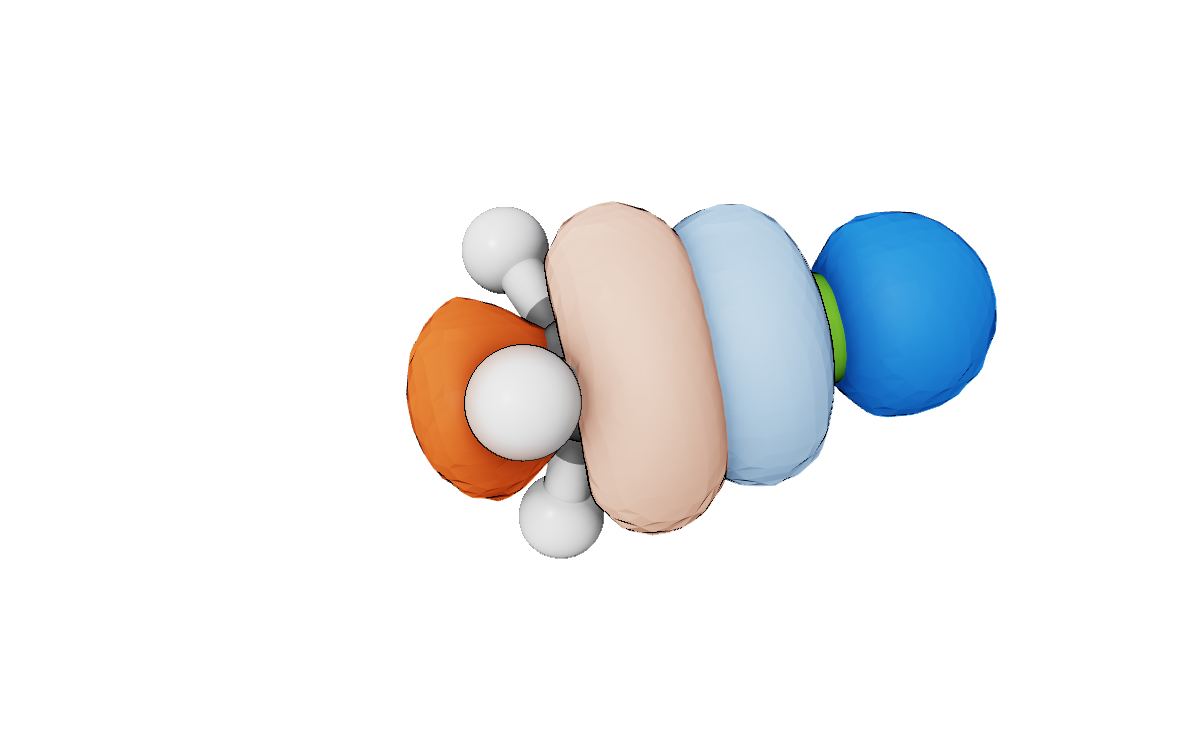
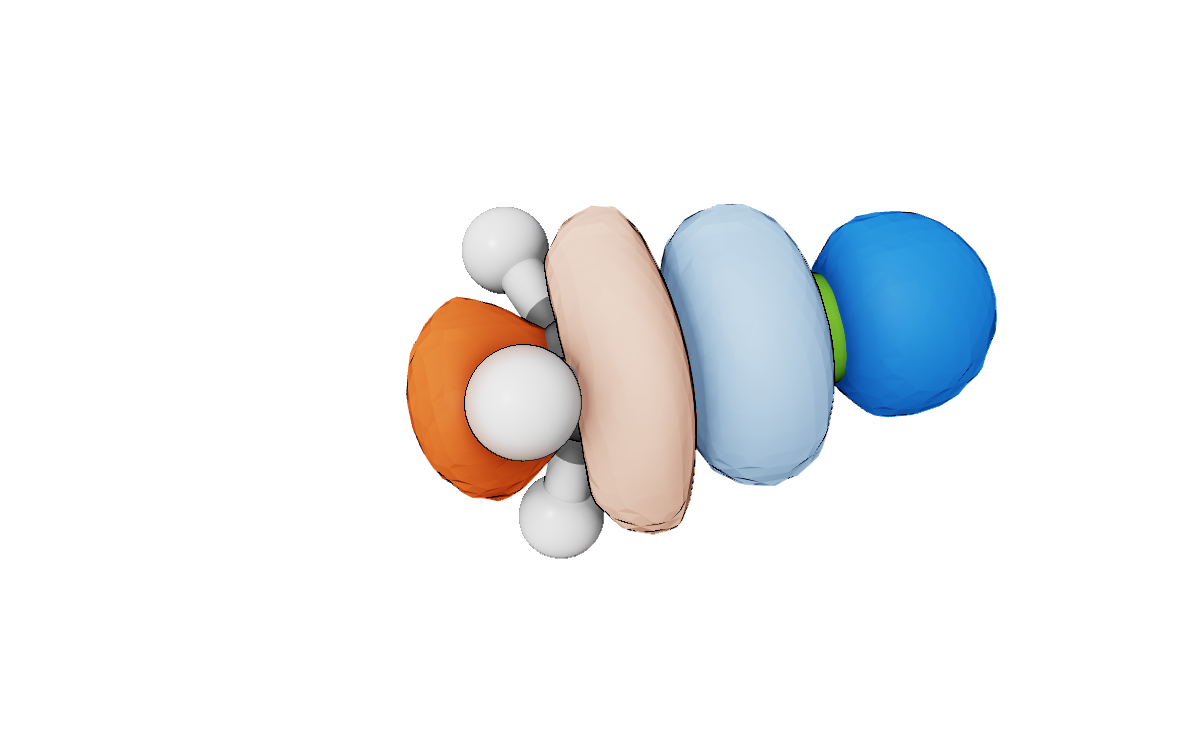
EOS/GEOS EFOs drawn times their fragment's weight, as APOST-3D's cubes
The orbitals of the EFO .fchk are fits of w_F times the EFO, with tails
on other fragments; with the atomic weights in the results, the EFOs are
drawn times w_F once more, which removes them. Drawing them as stored is
kept under Advanced; changing it redraws the EFOs already drawn, and
sessions keep the choice. Examples refreshed to schema 0.16; guide
section and pictures updated.

Changed region(s): [[0.4933, 0.2453, 0.6167, 0.7053], [0.5242, 0.7053, 0.555, 0.736]]

diff --git a/crates/app/src/orbitals.rs b/crates/app/src/orbitals.rs
@@ -1,8 +1,8 @@
 //! Orbital generation from a wavefunction (.fchk/.molden).
 
-use std::collections::HashSet;
+use std::collections::{BTreeMap, HashSet};
 
-use apost3dview_core::{generate_density_grid, generate_mo_grids, ApostResults, MolecularOrbitals, Molecule, Wavefunction};
+use apost3dview_core::{generate_density_grid, generate_mo_grids, generate_weighted_mo_grids, ApostResults, AtomCells, MolecularOrbitals, Molecule, OrbitalSet, Wavefunction};
 
 use crate::app::App;
 use crate::isosurfaces::{density_settings, Surface, SurfaceSettings, SurfaceSource};
@@ -78,6 +78,9 @@ pub(crate) struct OrbitalGenerationState {
     pub(crate) preset: OrbitalAccuracyPreset,
     pub(crate) custom_spacing_bohr: f64,
     pub(crate) padding_bohr: f64,
+    /// EFOs of EOS/GEOS sets times their fragment's atomic weight
+    /// (`fragment_weighting`), where the results file has the weights.
+    pub(crate) fragment_weighted: bool,
     /// 1-based, inclusive — state for the "Select range" convenience
     /// button in the MO picker.
     pub(crate) range_start: usize,
@@ -90,6 +93,7 @@ impl Default for OrbitalGenerationState {
             preset: OrbitalAccuracyPreset::Medium,
             custom_spacing_bohr: ORBITAL_SPACING_MEDIUM_BOHR,
             padding_bohr: ORBITAL_GRID_PADDING_BOHR,
+            fragment_weighted: true,
             range_start: 1,
             range_end: 1,
         }
@@ -168,6 +172,24 @@ pub(crate) struct SetContext<'a> {
     pub(crate) set: &'a LoadedOrbitalSet,
     pub(crate) results: &'a ApostResults,
     pub(crate) molecule: &'a Molecule,
+    /// EFOs times their fragment's atomic weight, where the results file
+    /// has the weights (`fragment_weighting`).
+    pub(crate) weighted: bool,
+}
+
+/// What an EFO set's orbitals are multiplied by: their fragment's atomic
+/// weight w_F, from the results file's `atomic_weights` (schema 0.16:
+/// BECKE, BECKE-RHO and TFVC atoms). The orbitals APOST-3D writes are
+/// basis-set fits of w_F times the EFO, with small tails on the other
+/// fragments; times w_F once more, the tails go. `None` for OSLOs (exact
+/// localized orbitals, not fragment-weighted), for Hilbert-space and
+/// Hirshfeld atoms and for files before 0.16 (no weights: drawn as stored);
+/// `Err` when the file's weights can't be used.
+pub(crate) fn fragment_weighting(set: &OrbitalSet, results: &ApostResults) -> Option<Result<AtomCells, String>> {
+    if !matches!(set.analysis.as_str(), "eos" | "geos") {
+        return None;
+    }
+    results.atom_cells()
 }
 
 /// How generated orbitals are named: the SCF ones "HOMO"/"MO 12", an
@@ -199,7 +221,20 @@ pub(crate) fn orbital_surfaces(
         }
         requests.push((orbitals, choice.mo_index));
     }
-    let grids = generate_mo_grids(&wfn.basis, &requests, spacing_bohr, padding_bohr)?;
+    let weighting = match &names {
+        OrbitalNames::Set(c) if c.weighted => fragment_weighting(&c.set.set, c.results).transpose().map_err(|reason| format!("the atomic weights of the results file can't be used: {reason}"))?,
+        _ => None,
+    };
+    let grids = match &weighting {
+        Some(cells) => {
+            let OrbitalNames::Set(c) = &names else { unreachable!() };
+            let atoms: Vec<Option<Vec<usize>>> =
+                choices.iter().map(|choice| c.set.labels(choice.beta).get(choice.mo_index).and_then(Option::as_ref).map(|label| c.results.fragment_atoms(&label.fragments))).collect();
+            generate_weighted_mo_grids(&wfn.basis, &requests, cells, &atoms, spacing_bohr, padding_bohr)?
+        }
+        None => generate_mo_grids(&wfn.basis, &requests, spacing_bohr, padding_bohr)?,
+    };
+    let weighted = weighting.is_some();
     Ok(grids
         .into_iter()
         .zip(choices)
@@ -209,7 +244,7 @@ pub(crate) fn orbital_surfaces(
                 OrbitalNames::Set(c) => (App::set_orbital_label(c.set, choice.beta, choice.mo_index, c.results, c.molecule), Some(c.set.set.key())),
                 OrbitalNames::Natural(n) => (format!("NO {} ({})", choice.mo_index + 1, n.name), Some(n.key())),
             };
-            let source = SurfaceSource::Orbital { choice, spacing_bohr, padding_bohr, set };
+            let source = SurfaceSource::Orbital { choice, spacing_bohr, padding_bohr, set, weighted };
             let mut surface = Surface::new(label, grid, settings, source);
             match &names {
                 OrbitalNames::Set(c) => {
@@ -358,7 +393,7 @@ impl App {
             return;
         }
         let (Some(Ok(wfn)), Some(Ok(results))) = (&set.wavefunction, structure.apost.as_ref().map(|a| &a.results)) else { return };
-        let context = SetContext { set, results, molecule: &structure.molecule };
+        let context = SetContext { set, results, molecule: &structure.molecule, weighted: self.orbital_generation.fragment_weighted };
         let surfaces = match orbital_surfaces(wfn, &choices, spacing, padding, self.surface_defaults, OrbitalNames::Set(&context)) {
             Ok(surfaces) => surfaces,
             Err(err) => {
@@ -372,6 +407,53 @@ impl App {
         let noun = if count == 1 { title.replacen("Os", "O", 1) } else { title.to_string() };
         self.add_surfaces(active, surfaces, true);
         self.show_status(format!("{count} {noun} generated"));
+    }
+
+    /// Generates the drawn orbitals of set `key` of a structure again, with
+    /// the current choice of fragment weighting, each keeping its settings
+    /// and visibility.
+    pub(crate) fn reweigh_set_surfaces(&mut self, structure_index: usize, key: &str) {
+        let Some(position) = self.structures[structure_index].orbital_sets.iter().position(|s| s.set.key() == key) else { return };
+        let mut groups: BTreeMap<(u64, u64), Vec<OrbitalChoice>> = BTreeMap::new();
+        for surface in &self.structures[structure_index].surfaces {
+            if let SurfaceSource::Orbital { choice, spacing_bohr, padding_bohr, set: Some(set), .. } = &surface.source
+                && set == key
+            {
+                groups.entry((spacing_bohr.to_bits(), padding_bohr.to_bits())).or_default().push(*choice);
+            }
+        }
+        if groups.is_empty() || !self.load_orbital_set(structure_index, position) {
+            return;
+        }
+        let weighted = self.orbital_generation.fragment_weighted;
+        let structure = &self.structures[structure_index];
+        let set = &structure.orbital_sets[position];
+        let (Some(Ok(wfn)), Some(Ok(results))) = (&set.wavefunction, structure.apost.as_ref().map(|a| &a.results)) else { return };
+        let context = SetContext { set, results, molecule: &structure.molecule, weighted };
+        let mut redrawn = Vec::new();
+        for ((spacing, padding), choices) in groups {
+            match orbital_surfaces(wfn, &choices, f64::from_bits(spacing), f64::from_bits(padding), SurfaceSettings::default(), OrbitalNames::Set(&context)) {
+                Ok(surfaces) => redrawn.extend(surfaces),
+                Err(err) => {
+                    self.show_warning(format!("Orbitals could not be generated: {err}"));
+                    return;
+                }
+            }
+        }
+        let count = redrawn.len();
+        let structure = &mut self.structures[structure_index];
+        for mut surface in redrawn {
+            if let Some(old) = structure.surfaces.iter_mut().find(|s| s.label == surface.label) {
+                surface.settings = old.settings;
+                surface.visible = old.visible;
+                *old = surface;
+            }
+        }
+        if self.active_structure == Some(structure_index) {
+            self.rebuild_isosurface();
+        }
+        let how = if weighted { "times their fragment's weight" } else { "as stored in the orbital file" };
+        self.show_status(format!("{count} EFO{} redrawn {how}", if count == 1 { "" } else { "s" }));
     }
 
     /// Draws one orbital of an analysis set (from a table row): the set

diff --git a/crates/app/src/session.rs b/crates/app/src/session.rs
@@ -213,6 +213,10 @@ enum SurfaceOrigin {
         /// of a density matrix ("natural-MP2"); absent for SCF orbitals.
         #[serde(default, skip_serializing_if = "Option::is_none")]
         orbital_set: Option<String>,
+        /// An EFO times its fragment's atomic weight (APOST-3D 0.16 on);
+        /// absent = as stored in the orbital file.
+        #[serde(default, skip_serializing_if = "std::ops::Not::not")]
+        fragment_weighted: bool,
     },
     /// The total or spin density, recomputed from the wavefunction.
     Density {
@@ -320,12 +324,13 @@ impl App {
                                 box_padding_bohr: *padding_bohr,
                                 density_matrix: natural.clone(),
                             },
-                            SurfaceSource::Orbital { choice, spacing_bohr, padding_bohr, set } => SurfaceOrigin::Orbital {
+                            SurfaceSource::Orbital { choice, spacing_bohr, padding_bohr, set, weighted } => SurfaceOrigin::Orbital {
                                 spin: if choice.beta { Spin::Beta } else { Spin::Alpha },
                                 orbital: choice.mo_index + 1,
                                 grid_spacing_bohr: *spacing_bohr,
                                 box_padding_bohr: *padding_bohr,
                                 orbital_set: set.clone(),
+                                fragment_weighted: *weighted,
                             },
                         };
                         let s = &surface.settings;
@@ -676,7 +681,7 @@ impl App {
         // Orbitals, grouped by set and grid so each group is one batched
         // evaluation.
         // (set, spacing bits, padding bits) -> (slot, orbital).
-        type Group = (Option<String>, u64, u64);
+        type Group = (Option<String>, u64, u64, bool);
         let mut groups: BTreeMap<Group, Vec<(usize, OrbitalChoice)>> = BTreeMap::new();
         for (slot, state) in states.iter().enumerate() {
             match &state.origin {
@@ -701,13 +706,13 @@ impl App {
                         Err(err) => problems.push(format!("the density of {name} could not be generated ({err})")),
                     }
                 }
-                SurfaceOrigin::Orbital { spin, orbital, grid_spacing_bohr, box_padding_bohr, orbital_set } => {
+                SurfaceOrigin::Orbital { spin, orbital, grid_spacing_bohr, box_padding_bohr, orbital_set, fragment_weighted } => {
                     let choice = OrbitalChoice { beta: *spin == Spin::Beta, mo_index: orbital.saturating_sub(1) };
-                    groups.entry((orbital_set.clone(), grid_spacing_bohr.to_bits(), box_padding_bohr.to_bits())).or_default().push((slot, choice));
+                    groups.entry((orbital_set.clone(), grid_spacing_bohr.to_bits(), box_padding_bohr.to_bits(), *fragment_weighted)).or_default().push((slot, choice));
                 }
             }
         }
-        for ((set_name, spacing, padding), members) in groups {
+        for ((set_name, spacing, padding, weighted), members) in groups {
             let choices: Vec<OrbitalChoice> = members.iter().map(|(_, c)| *c).collect();
             let generated = match &set_name {
                 None => match &self.structures[index].wavefunction {
@@ -726,7 +731,7 @@ impl App {
                         let set = &structure.orbital_sets[position];
                         match (&set.wavefunction, structure.apost.as_ref().map(|a| &a.results)) {
                             (Some(Ok(wfn)), Some(Ok(results))) => {
-                                let context = SetContext { set, results, molecule: &structure.molecule };
+                                let context = SetContext { set, results, molecule: &structure.molecule, weighted };
                                 orbital_surfaces(wfn, &choices, f64::from_bits(spacing), f64::from_bits(padding), SurfaceSettings::default(), OrbitalNames::Set(&context))
                             }
                             _ => Err("no results".to_string()),

diff --git a/crates/app/tests/orbital_sets.rs b/crates/app/tests/orbital_sets.rs
@@ -260,3 +260,64 @@ fn sessions_keep_analysis_orbitals() {
     let harness = app_with(vec![session]);
     assert_eq!(harness.state().surface_labels(), vec![("OSLO 9 \u{b7} 1 CH3 + 2 CH3".to_string(), true)]);
 }
+
+/// Schema 0.16: EOS/GEOS EFOs are drawn times their fragment's atomic
+/// weight (the fit's tails on other fragments go); "Draw as stored in the
+/// .fchk", under Advanced, redraws the ones already drawn as stored in the
+/// file, unticking it gives back the same picture, and a session keeps the
+/// choice. OSLOs have no such box.
+#[test]
+fn efos_lose_their_tails_on_other_fragments() {
+    let dir = example("CH3F-GEOS");
+    let mut harness = app_with(vec![dir.join("CH3F-GEOS.apost.json")]);
+    harness.get_by_label("Surfaces").click_accesskit();
+    harness.run_steps(2);
+    choose_orbitals(&mut harness, "GEOS EFOs");
+    let trim = "Draw as stored in the .fchk";
+    if harness.query_by_label("Advanced").is_none() {
+        eprintln!("examples/CH3F-GEOS predates APOST-3D 0.16: no atomic weights");
+        return;
+    }
+    harness.get_by_label("Frontier").click_accesskit();
+    harness.run_steps(2);
+    harness.get_by_label("Generate 2 orbital(s)").click_accesskit();
+    harness.run_steps(4);
+    let weighted = harness.state_mut().render_image(320, 240).unwrap();
+    let scratch = scratch_dir("fragment-weights");
+    let session = scratch.join("weighted.a3dview");
+    harness.state().save_session_to(&session).unwrap();
+    assert_eq!(std::fs::read_to_string(&session).unwrap().matches("fragment_weighted = true").count(), 2);
+
+    harness.state_mut().clear_toasts();
+    assert!(harness.query_by_label(trim).is_none(), "kept out of the way, under Advanced");
+    harness.get_by_label("Advanced").click_accesskit();
+    harness.run_steps(2);
+    harness.get_by_label(trim).click_accesskit();
+    harness.run_steps(4);
+    assert!(toasts(&harness).iter().any(|m| m == "2 EFOs redrawn as stored in the orbital file"), "{:?}", toasts(&harness));
+    let plain = harness.state_mut().render_image(320, 240).unwrap();
+    let differing = weighted.chunks(4).zip(plain.chunks(4)).filter(|(a, b)| a != b).count();
+    assert!(differing > 100, "only {differing} pixels changed");
+    let unweighted_session = scratch.join("plain.a3dview");
+    harness.state().save_session_to(&unweighted_session).unwrap();
+    assert!(!std::fs::read_to_string(&unweighted_session).unwrap().contains("fragment_weighted"));
+
+    harness.get_by_label(trim).click_accesskit();
+    harness.run_steps(4);
+    assert!(toasts(&harness).iter().any(|m| m == "2 EFOs redrawn times their fragment's weight"), "{:?}", toasts(&harness));
+    assert!(harness.state_mut().render_image(320, 240).unwrap() == weighted, "ticking again gives back the weighted picture");
+
+    // Both sessions reopen to their own picture.
+    for (file, expected) in [(&session, &weighted), (&unweighted_session, &plain)] {
+        let mut reopened = app_with(vec![file.clone()]);
+        reopened.run_steps(4);
+        assert!(reopened.state_mut().render_image(320, 240).unwrap() == *expected, "{}", file.display());
+    }
+
+    // OSLOs are exact localized orbitals: nothing to trim.
+    let mut oslo = app_with(vec![example("C2H6-OSLO-2CH3").join("C2H6-OSLO-2CH3.apost.json")]);
+    oslo.get_by_label("Surfaces").click_accesskit();
+    oslo.run_steps(2);
+    choose_orbitals(&mut oslo, "OSLOs");
+    assert!(oslo.query_by_label("Advanced").is_none() && oslo.query_by_label(trim).is_none());
+}

diff --git a/crates/app/src/windows/surfaces.rs b/crates/app/src/windows/surfaces.rs
@@ -9,7 +9,7 @@ use crate::app::App;
 use crate::windows::ToolWindow;
 use crate::orbital_sets::show_set_checklist;
 use crate::isosurfaces::SurfaceSettings;
-use crate::orbitals::{show_mo_checklist, OrbitalAccuracyPreset};
+use crate::orbitals::{fragment_weighting, show_mo_checklist, OrbitalAccuracyPreset};
 use crate::state::LoadedStructure;
 
 /// What the surface list asks for after drawing.
@@ -187,11 +187,40 @@ impl App {
         } else if let Some(note) = &set.set.beta_note {
             ui.label(RichText::new(note).small().weak());
         }
+        // EFOs are drawn times their fragment's weight whenever the results
+        // have the atomic weights (APOST-3D 0.16 on, real-space atoms), as
+        // APOST-3D's cube files are; drawing them as stored is kept out of
+        // the way, under Advanced (Martí, 2026-10-22).
+        let mut reweigh = None;
+        match fragment_weighting(&set.set, results).map(|cells| cells.err()) {
+            Some(None) => {
+                egui::CollapsingHeader::new(RichText::new("Advanced").small()).id_salt("set_orbitals_advanced").default_open(false).show(ui, |ui| {
+                    let scheme = results.input.as_ref().and_then(|i| i.atomic_definition.as_ref()).and_then(|d| d.short_name.clone()).unwrap_or_else(|| "atomic".to_string());
+                    let hint = format!(
+                        "EFOs are drawn times their fragment's {scheme} weight w_F, like APOST-3D's cube files: the orbitals of the .fchk are basis-set fits \
+                         of w_F times the EFO, with small tails on the other fragments, which the weight removes. Ticked: the orbitals exactly as stored \
+                         in the .fchk, tails included. Changing this redraws the EFOs already generated."
+                    );
+                    let mut as_stored = !self.orbital_generation.fragment_weighted;
+                    if ui.checkbox(&mut as_stored, "Draw as stored in the .fchk").on_hover_text(hint).changed() {
+                        self.orbital_generation.fragment_weighted = !as_stored;
+                        reweigh = Some(set.set.key());
+                    }
+                });
+            }
+            Some(Some(reason)) => {
+                ui.label(RichText::new(format!("The atomic weights of the results can't be used: {reason}")).small().color(ui.visuals().warn_fg_color));
+            }
+            None => {}
+        }
         let selected_count = set.selected_alpha.len() + set.selected_beta.len();
         self.show_grid_controls(ui);
         ui.add_space(4.0);
         if ui.add_sized([ui.available_width(), 26.0], egui::Button::new(format!("Generate {selected_count} orbital(s)"))).clicked() {
             self.generate_set_orbitals();
+        }
+        if let Some(key) = reweigh {
+            self.reweigh_set_surfaces(active, &key);
         }
     }
 

diff --git a/crates/app/src/isosurfaces.rs b/crates/app/src/isosurfaces.rs
@@ -98,6 +98,9 @@ pub(crate) enum SurfaceSource {
         /// The analysis set ("eos", "geos", "oslo") for an EFO or OSLO;
         /// `None` for the SCF orbitals.
         set: Option<String>,
+        /// An EFO drawn times its fragment's atomic weight (`apost3dview_core
+        /// ::atomic_weights`), not as stored in the orbital file.
+        weighted: bool,
     },
     /// The electron density (or, `spin`, the spin density) of the
     /// structure's wavefunction: from its occupied orbitals (`natural`

diff --git a/docs/src/results/efos-oslos.md b/docs/src/results/efos-oslos.md
@@ -19,6 +19,12 @@ The lists are per spin channel when there are two: α and β for EOS, paired and
 
 An EFO with a fit below 60% is marked *approximate*: the orbital in the file then only roughly reproduces the EFO and can show lobes the exact one doesn't have. Hover over the mark for the reason. The exact shape is in the EFO's cube file, which APOST-3D writes on request (`CUBE` in its input), and which opens like any other cube.
 
+### Tails on other fragments
+
+The EFOs in the orbital file are fits, in the basis set of the calculation, of each EFO times its fragment's atomic weight. A fit leaves small tails on the other fragments, which show up at low isovalues (0.02, say) as small extra lobes on atoms the EFO doesn't belong to. With TFVC, Becke or Becke-rho atoms, APOST-3D also writes the atomic weights to the results file (since its results format 0.16), and APOST3Dview then draws each EFO times its fragment's weight once more: the tails go, and the shape is close to the EFO's cube file. Where the fragment's weight is close to 1 nothing changes; near the boundary of the fragment the EFO comes out somewhat weaker than in its cube, which is noticeable only for weakly occupied EFOs that reach across the boundary.
+
+This is always done when the results have the weights. To see the orbitals exactly as stored in the file, tails included, open **Advanced** under the list of EFOs and tick **Draw as stored in the .fchk**; the EFOs already drawn are redrawn either way, and sessions keep the choice. The weighting doesn't apply to OSLOs (exact localized orbitals, not fragment-weighted), to Mulliken, Löwdin and other Hilbert-space atoms, to Hirshfeld atoms, or to results files written before format 0.16. It doesn't fix a poor fit on the EFO's own fragment: the *approximate* mark still applies.
+
 ## Drawing an orbital from its table
 
 The **Tables** section of the **APOST-3D** window lists the tables of the analyses, one at a time from its menu: here, the OSLOs with their fragments and FOLI.

diff --git a/docs/src/formats.md b/docs/src/formats.md
@@ -28,6 +28,6 @@ The orbitals APOST3Dview computes were compared, at every point of the grid, wit
 
 Densities were checked against the density matrices Gaussian writes itself, evaluated independently at every grid point (water at several basis sets, BiCl3 with an ECP and g functions, a triplet's total and spin densities): they agree to about 2 × 10⁻⁷ of the value. Correlated densities, through their natural orbitals, agree with their density matrices to 2 to 7 × 10⁻⁷ (CASSCF, CISD and FCI from PySCF, and Gaussian's MP2 density).
 
-On the APOST-3D side, APOST3Dview is tested on every change against APOST-3D's own reference results: every file loads, every value it lists can be read, and the input APOST3Dview writes is read back as APOST-3D reads it.
+On the APOST-3D side, APOST3Dview is tested on every change against APOST-3D's own reference results: every file loads, every value it lists can be read, and the input APOST3Dview writes is read back as APOST-3D reads it. The atomic weights APOST3Dview rebuilds from a results file (to draw EFOs without the tails of their fit) agree with APOST-3D's own at 105 points per system to 10⁻¹⁵ (TFVC and Becke-rho atoms).
 
 These files open like any other, and are a quick way to try orbitals and densities.
